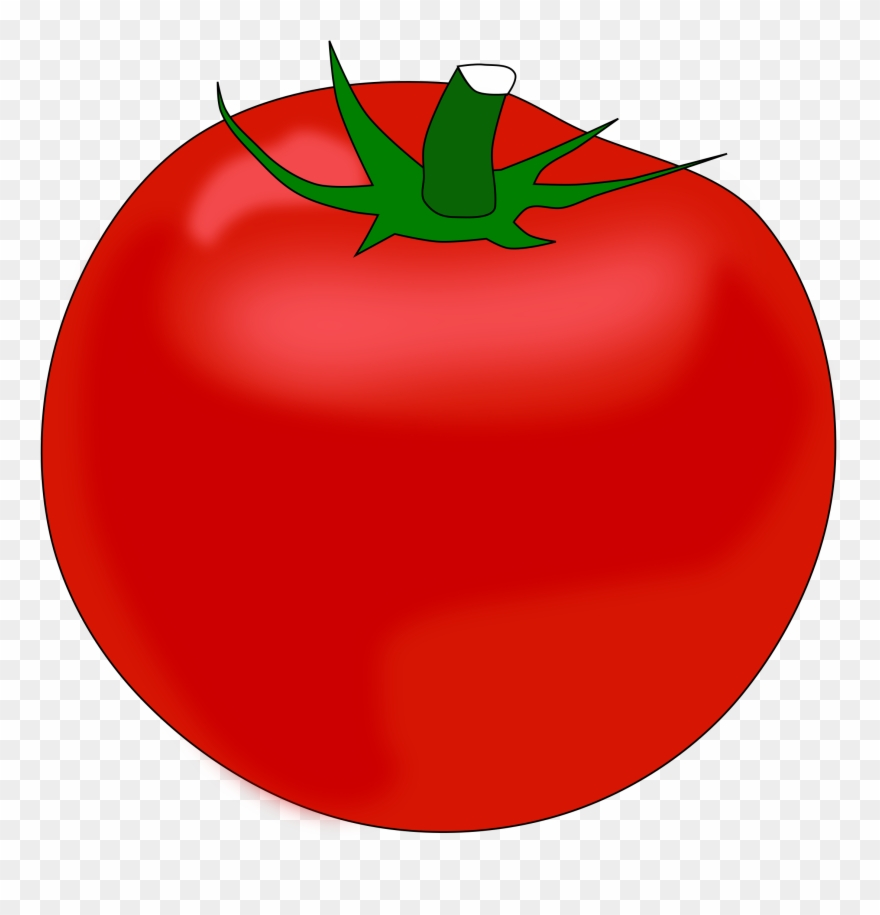
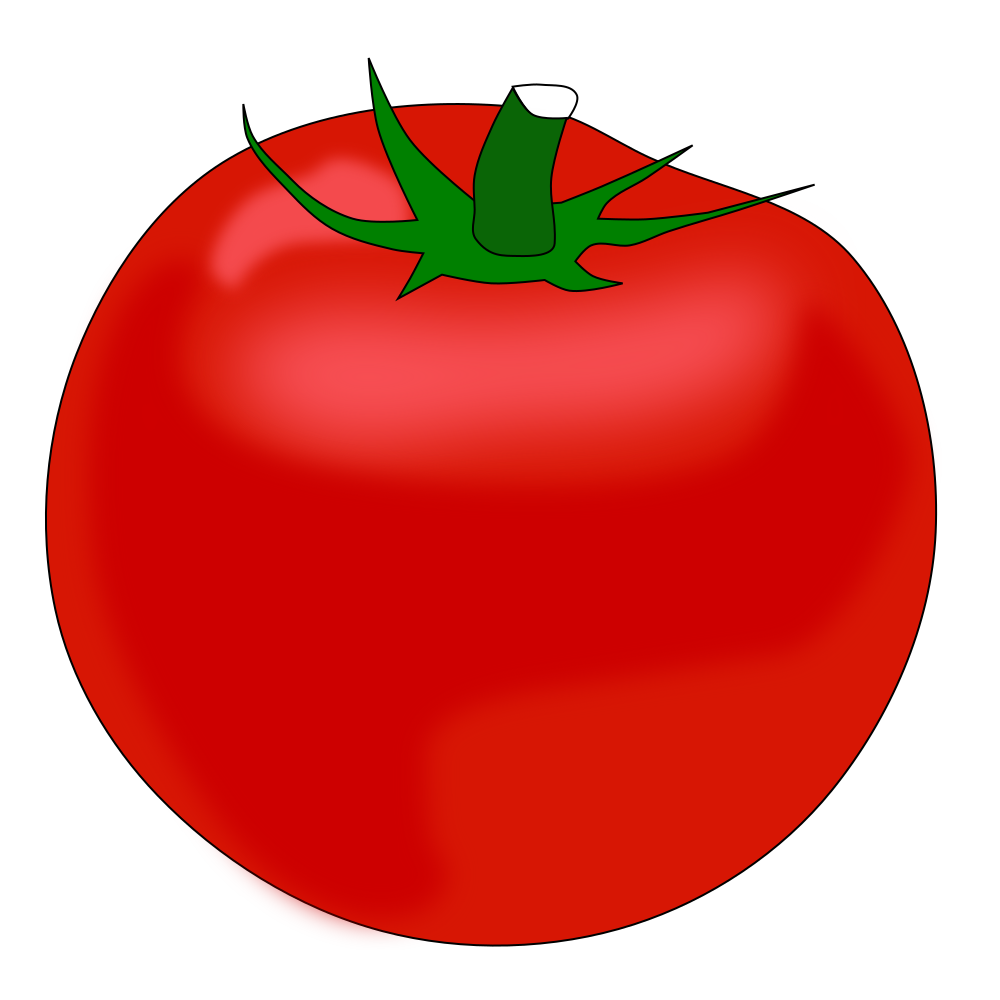
Estilização
Upload da estilização do timer

diff --git a/src/pages/pomodoroTimer/styles.css b/src/pages/pomodoroTimer/styles.css
@@ -1,0 +1,67 @@
+.pomodoro-container 
+{
+    display: flex;
+    align-items: center;
+    justify-content: center;
+}
+.pomodoro-container .content
+{
+    width: 500px;
+    padding: 20px;
+    display: flex;
+    justify-content: center;
+    align-items: center;
+    margin-top: 10%;
+}
+
+
+.pomodoro-container .content p
+{
+    background: url('../../assets/images/tomatoBg.png');
+    background-size: cover;
+    width: 300px;
+    height: 300px;
+    font-size: 30px;
+    color: green;
+    padding: 90px;
+}
+
+.pomodoro-container .content p input
+{
+   border: none;
+   width: 40%;
+   font-size: 30px;
+   text-align: center;
+   background: transparent;
+   margin-top: 25%;
+   color: white;
+   font-weight: bold;
+}
+
+.pomodoro-container .content button 
+{
+    background: rgb(0, 172, 0);
+    border: none;
+    width: 75px;
+    display: block;
+    margin: 10px auto;
+    padding: 5px;
+    color: white;
+    border-radius: 2px;
+    font-weight: bold;
+}
+
+h2{
+    display: inline-block;
+    margin-top: 10%;
+    font-size: 50px;
+    text-align: center;
+    font-family: 'Courier New', Courier, monospace;
+    font-weight: bold;
+    color:green;
+}
+
+span
+{
+    color: red;
+}

diff --git a/src/pages/pomodoroTimer/index.js b/src/pages/pomodoroTimer/index.js
@@ -1,6 +1,5 @@
 import React, {useState} from 'react';
 import './styles.css'; 
-
 export default function PomodoroTimer()
 {
     const [minutes, setMinutes] = useState('25');
@@ -43,13 +42,14 @@ export default function PomodoroTimer()
           }
     
     return (
-        <div>
-            <div>
-                <p id="demo"> 
-                    <input value={minutes}/>:<input value={seconds}/>
-                </p>
+        <div className="pomodoro-container">
+            <h2><span>P</span>omodoro <span><br/>T</span>imer</h2>
+            <div className="content">
+                <p>
+                <input value={minutes}/>:<input value={seconds}/>
                 <button onClick={startPomodoro}>Start</button>
                 <button onClick={refreshPage}> Refresh</button>
+                </p>
             </div>
         </div>
     );
